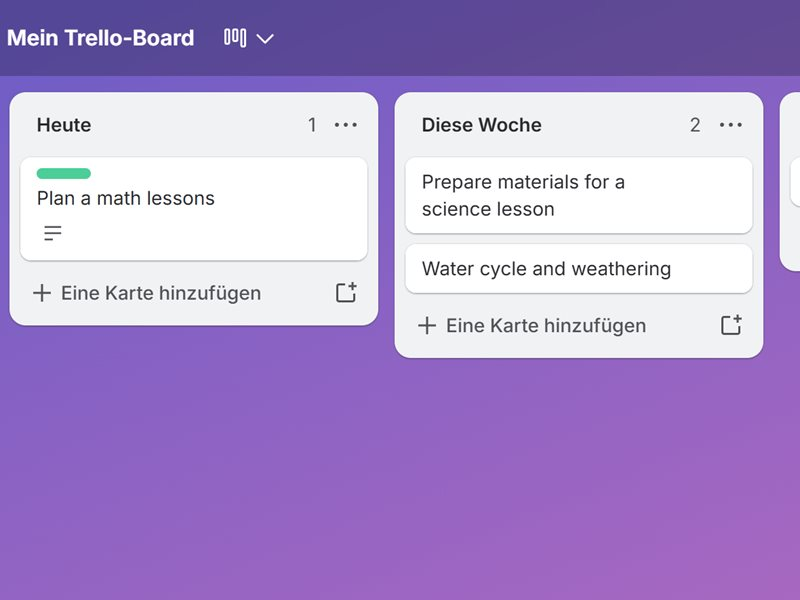
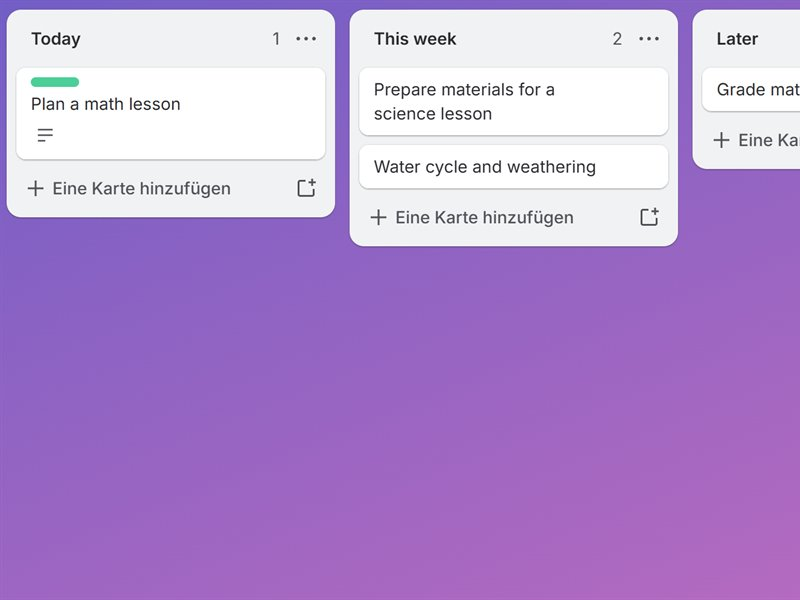
Add the handwritten baseline list and English Trello board to the post
Figure 1 is now the photo of the handwritten to-do list instead of a
placeholder, and Figure 3 and the blog thumbnail use the Trello board
with English list names. The intro now also names the weekly
newsletter, which both the list and the board include.

diff --git a/trello-vs-asana.html b/trello-vs-asana.html
@@ -45,15 +45,13 @@
 
         <div class="prose">
           <h3 id="test">The Test</h3>
-          <p>Productivity tools are supposed to make work easier, but more features do not automatically mean greater productivity. To test this idea, I compared two project-management tools, Trello and Asana, using a task that is common in my professional life: organizing weekly teaching responsibilities. My test included tasks such as planning a math lesson, preparing science materials, grading student work, and sending a family reminder.</p>
+          <p>Productivity tools are supposed to make work easier, but more features do not automatically mean greater productivity. To test this idea, I compared two project-management tools, Trello and Asana, using a task that is common in my professional life: organizing weekly teaching responsibilities. My test included tasks such as planning a math lesson, preparing science materials, grading student work, sending a family reminder, and drafting a weekly newsletter.</p>
           <p>I first organized the tasks without a specialized productivity tool, using a simple list. Then I repeated the process in Asana and Trello. I evaluated each approach using four criteria: setup effort, the number of steps needed to create or change tasks, ease of finding key functions, and the clarity of the finished workflow. My goal was not to identify the tool with the most features, but the one that made a routine planning task easier to manage.</p>
 
           <h3 id="baseline">Baseline</h3>
           <figure>
-            <div class="lighten">
-              <div class="image-placeholder">Baseline task list</div>
-            </div>
-            <figcaption><strong>Figure 1.</strong> The baseline: the week's teaching tasks as a simple list.</figcaption>
+            <a href="images/planning-tools/baseline-list.jpg" class="photo-narrow"><img class="screenshot" src="images/planning-tools/baseline-list.jpg" alt="Handwritten to-do list on a notepad: Plan math lesson, Grading, Plan science lesson, Send family reminder, Draft weekly newsletter" width="900" height="943" loading="lazy"></a>
+            <figcaption><strong>Figure 1.</strong> The baseline: the week's teaching tasks as a handwritten list.</figcaption>
           </figure>
           <p>The baseline list required almost no training and was quick to create. Its weakness was flexibility. Tasks could not be easily rearranged, updated, categorized, or moved as priorities changed. This limitation highlights a broader advantage of cloud-based workflow tools. Kipps and Jones (2020) found that collaborative cloud technologies can improve workflow management and be cost-effective, although they also cautioned that complexity and long-term usability should be considered.</p>
 
@@ -66,8 +64,8 @@
 
           <h3 id="trello">Trello</h3>
           <figure>
-            <a href="images/planning-tools/trello-board.jpg"><img class="screenshot" src="images/planning-tools/trello-board.jpg" alt="Trello board with lists Heute (Today), Diese Woche (This Week), Später (Later) and Send family reminder; cards include Plan a math lessons, Prepare materials for a science lesson, Water cycle and weathering and Grade math work; the list actions menu is open" width="1600" height="953" loading="lazy"></a>
-            <figcaption><strong>Figure 3.</strong> The Trello board (German interface): Heute, Diese Woche and Später are Today, This Week and Later.</figcaption>
+            <a href="images/planning-tools/trello-board.jpg"><img class="screenshot" src="images/planning-tools/trello-board.jpg" alt="Trello board with lists Today, This week, Later, Send family reminder and Draft Newsletter; cards include Plan a math lesson, Prepare materials for a science lesson, Water cycle and weathering and Grade math work" width="1600" height="565" loading="lazy"></a>
+            <figcaption><strong>Figure 3.</strong> The Trello board, with tasks sorted into Today, This week and Later.</figcaption>
           </figure>
           <p>Trello felt much more intuitive. Its board, list, and card structure made it easy to see tasks and move them between categories such as Today, This Week, and Later. I could understand the basic workflow with little explanation. Trello was not completely frictionless, however. Priority was harder to locate because Trello uses customizable labels rather than an obvious field called “Priority.” I also initially created one item as a list instead of a card, showing that even a relatively simple interface requires some learning.</p>
 

diff --git a/css/site.css b/css/site.css
@@ -241,3 +241,4 @@ main .lighten.fit img { height: auto; }
 .compare-table th, .compare-table td { vertical-align: top; padding: 10px 12px 10px 0; }
 .compare-table tbody th { text-align: left; font-weight: 500; color: var(--color-text); font-size: 14px; letter-spacing: 0; text-transform: none; }
 .compare-table td { color: var(--color-neutral-300); }
+.prose figure > a.photo-narrow { max-width: 420px; }
